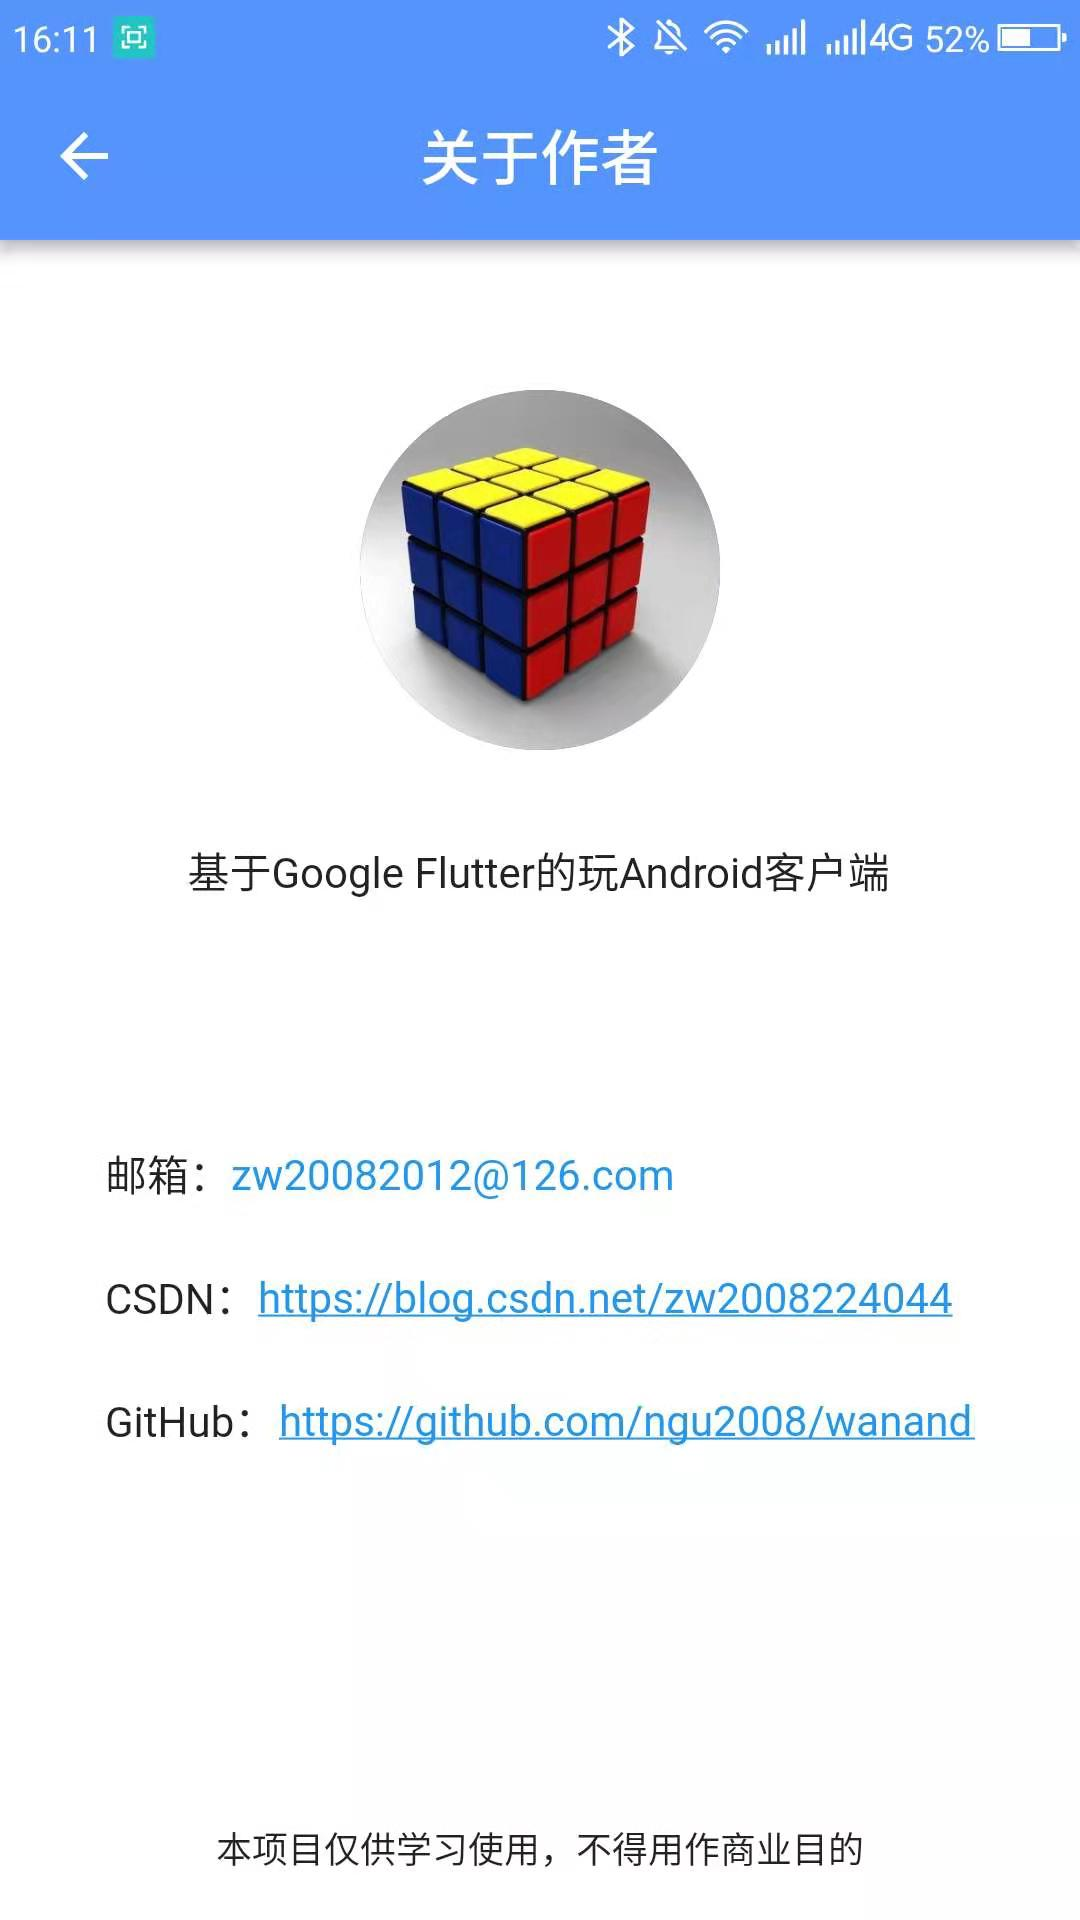
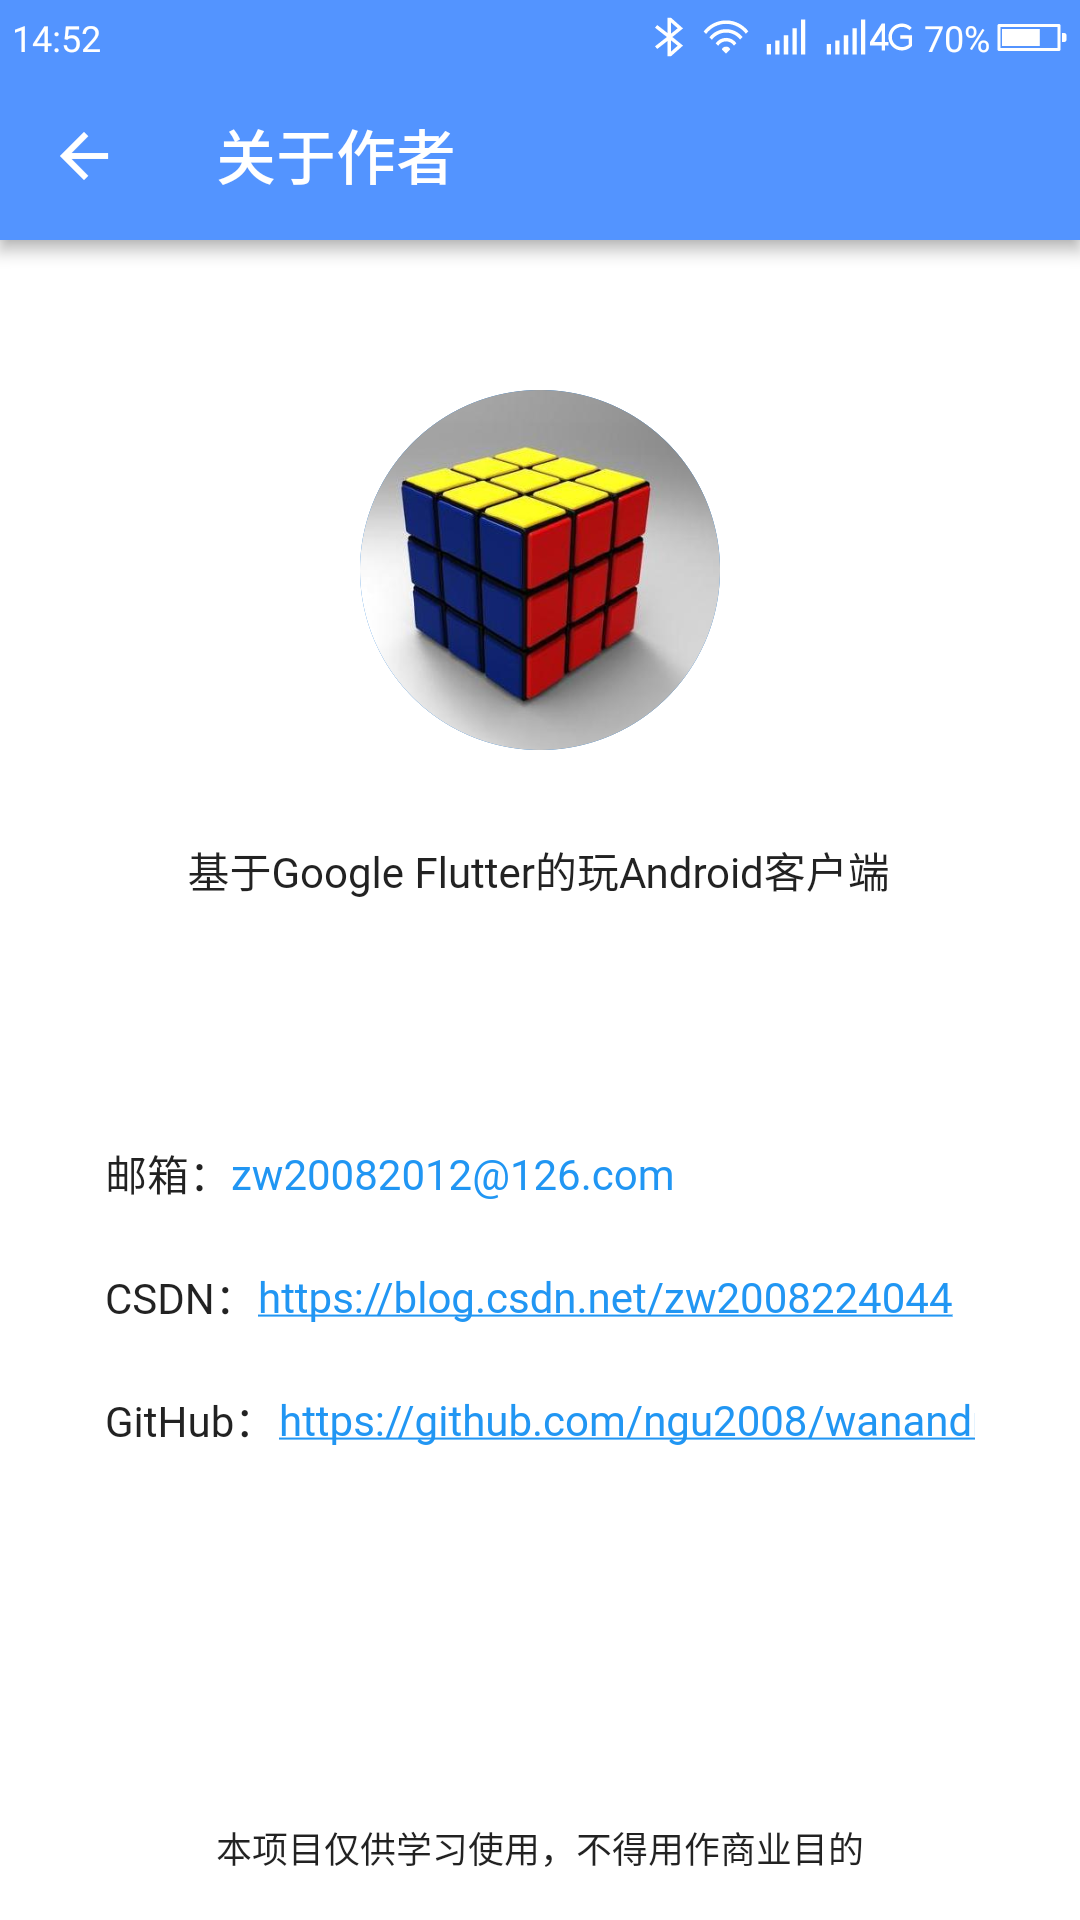
新增搜索功能，UI风格变化

diff --git a/lib/search/hot_search_result.dart b/lib/search/hot_search_result.dart
@@ -3,9 +3,7 @@ import 'package:wanandroid_ngu/http/common_service.dart';
 import 'package:wanandroid_ngu/model/hotword_result_model.dart';
 import 'package:wanandroid_ngu/public_ui/webview_page.dart';
 
-
 class HotResultPage extends StatefulWidget {
-
   String hot;
   HotResultPage(this.hot);
 
@@ -13,7 +11,6 @@ class HotResultPage extends StatefulWidget {
   State<StatefulWidget> createState() {
     return HotResultPageState();
   }
-
 }
 
 class HotResultPageState extends State<HotResultPage>{
@@ -29,7 +26,8 @@ class HotResultPageState extends State<HotResultPage>{
     String  _keyword = widget.hot;
     CommonService().getSearchResult((HotwordResultModel otwordResultModel) {
       setState(() {
-        _datas = otwordResultModel.data.datas;
+        _datas.clear();
+        _datas.addAll(otwordResultModel.data.datas);
       });
     }, _page, _keyword);
   }
@@ -48,6 +46,7 @@ class HotResultPageState extends State<HotResultPage>{
   void initState() {
     super.initState();
     _getData();
+
     _scrollController.addListener(() {
       if (_scrollController.position.pixels ==
           _scrollController.position.maxScrollExtent) {
@@ -74,7 +73,6 @@ class HotResultPageState extends State<HotResultPage>{
     super.dispose();
     _scrollController.dispose();
   }
-
 
   @override
   Widget build(BuildContext context) {

diff --git a/lib/knowledge/knowledge_content.dart b/lib/knowledge/knowledge_content.dart
@@ -40,7 +40,6 @@ class KnowledgeContentPageState extends State<KnowledgeContentPage>
         new TabController(length: _datas.children.length, vsync: this);
     return new Scaffold(
       appBar: new AppBar(
-        centerTitle: true,
         title: Text(_datas.name),
         bottom: new TabBar(
           controller: _tabController,

diff --git a/lib/drawer/my_collections.dart b/lib/drawer/my_collections.dart
@@ -11,7 +11,6 @@ class MyCollections extends StatelessWidget {
     return Scaffold(
       appBar: AppBar(
         title: Text("我的收藏"),
-        centerTitle: true,
         elevation: 0.4,
       ),
       body: CollectionList(),

diff --git a/README.md b/README.md
@@ -23,6 +23,11 @@
 
 ## 功能介绍
 
+#### V1.3版本
+
+- 新增搜索和搜索结果列表
+- 整个界面UI风格修改
+
 #### V1.2版本
 
 - 新增福利，妹子图，你懂得
@@ -76,18 +81,19 @@
 | :--: | :--: | :--: |
 | 导航 | 项目 | 基础知识 |
 
-| <img src="/screenshot/a8.jpg" width="280" height="498" alt="我的收藏"/> | <img src="/screenshot/a9.jpg" width="280" height="498" alt="详情页"/> |
-| :--: | :--: |
-| 我的收藏 | 详情页 |
+| <img src="/screenshot/a8.jpg" width="280" height="498" alt="我的收藏"/> | <img src="/screenshot/a9.jpg" width="280" height="498" alt="详情页"/> |<img src="/screenshot/a10.jpg" width="280" height="498" alt="详情页"/> |
+| :--: | :--: |:--: |
+| 我的收藏 | 详情页 | 热门搜索 |
 
-
+| <img src="/screenshot/a11.jpg" width="280" height="498" alt="搜索列表"/> |
+| :--: | :--: |:--: |
+| 搜索列表 |
 
 ##  感谢
 
 1. 特别感谢github开源作者[shijiacheng](https://github.com/shijiacheng/wanandroid_flutter)
 2. 感谢鸿洋大神及[玩Android官网](http://www.wanandroid.com/)提供的[开放API](http://www.wanandroid.com/blog/show/2)
 3. 感谢[干货集中营 API](http://gank.io/api)
-
 
 ## 使用开源库
 
